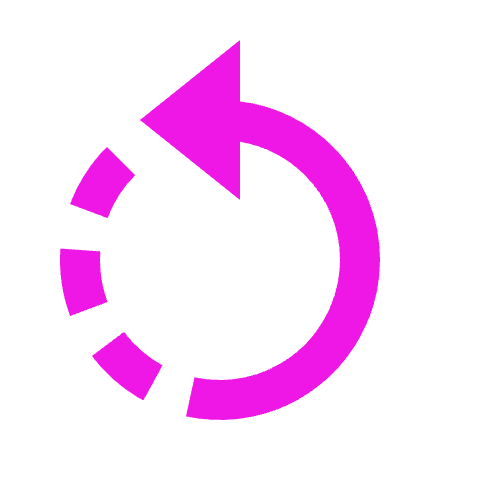
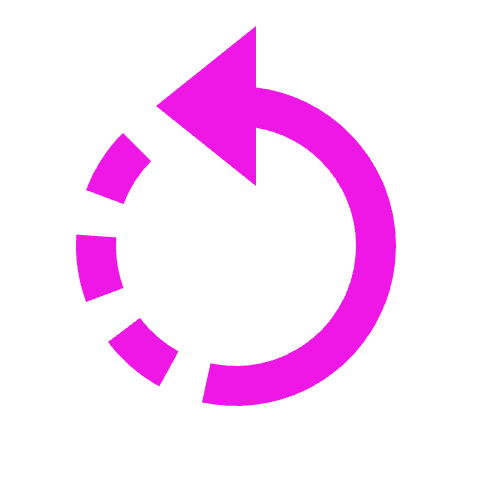
Hint images implemented.
When you click yes or no or back, a corresponding Icon will flash on the screen to make sure you don't accidentally click no a bunch when you think you are clicking yes.

diff --git a/WildSort.qml b/WildSort.qml
@@ -27,6 +27,27 @@ Window {
         function onPictureChanged(picOnOf){
             textPhotoNum.text = picOnOf
         }
+
+        function onFlashIcon(code){
+            if (code == "yes"){
+                checkMark.visible = true;
+                checkMarkTimer.restart()
+            }
+            else if (code == "no"){
+                redX. visible = true;
+                redXTimer.restart()
+            }
+            else if (code == "back"){
+                backArrow.visible = true;
+                backArrowTimer.restart()
+            }
+            else if (code == "typechange"){
+                redX. visible = false;
+                checkMark.visible = false;
+                typeChangeArrow.visible = true;
+                typeChangeArrowTimer.restart()
+            }
+        }
     }
 
     ImageLogic {
@@ -59,9 +80,18 @@ Window {
                 anchors.horizontalCenter: parent.horizontalCenter
                 focus:true
                 Keys.onPressed: (event)=> { 
-                    if (event.key == Qt.Key_L) source = imageLogic.choiceMade("yes");  
-                    else if (event.key == Qt.Key_Semicolon) source = imageLogic.choiceMade("no"); 
-                    else if (event.key == Qt.Key_Apostrophe) source = imageLogic.choiceMade("back"); 
+                    if (event.key == Qt.Key_L){
+                        imageSourceHolder.text = imageLogic.choiceMade("yes"); 
+                        imageTimer.restart();
+                    }
+                    if (event.key == Qt.Key_Semicolon){
+                        imageSourceHolder.text = imageLogic.choiceMade("no"); 
+                        imageTimer.restart();
+                    } 
+                    if (event.key == Qt.Key_Apostrophe){ 
+                        imageSourceHolder.text = imageLogic.choiceMade("back"); 
+                        imageTimer.restart();
+                    }
 
                     if (event.key == Qt.Key_Return) 
                     {
@@ -73,7 +103,21 @@ Window {
                         }
                     }
                         
-                    }
+                }
+                
+                Timer {
+                    id:imageTimer
+                    interval: 200; 
+
+                    onTriggered: parent.source = imageSourceHolder.text;
+
+                    
+                }
+                TextField {
+                    id: imageSourceHolder;
+                    visible: false;
+                    text: "Hello";
+                }
            }
            
 
@@ -152,9 +196,15 @@ Window {
         source: "images/check-mark.png"
         anchors.horizontalCenter: page.horizontalCenter
         anchors.verticalCenter: page.verticalCenter
-        height: page.height - 200
-        width: page.height - 200
+        height: page.height * 0.5
+        width: page.height * 0.5
         visible: false
+
+        Timer {
+            id: checkMarkTimer
+            interval: 100; 
+            onTriggered: parent.visible = false;
+        }
     }
 
     Image {
@@ -162,9 +212,15 @@ Window {
         source: "images/x-circle.png"
         anchors.horizontalCenter: page.horizontalCenter
         anchors.verticalCenter: page.verticalCenter
-        height: page.height - 200
-        width: page.height - 200
+        height: page.height * 0.5
+        width: page.height * 0.5
         visible: false
+
+        Timer {
+            id:redXTimer
+            interval: 100; 
+            onTriggered: parent.visible = false;
+        }
     }
 
     Image {
@@ -172,9 +228,15 @@ Window {
         source: "images/left-arrow.png"
         anchors.horizontalCenter: page.horizontalCenter
         anchors.verticalCenter: page.verticalCenter
-        height: page.height - 200
-        width: page.height - 200
+        height: page.height * 0.5
+        width: page.height * 0.5
         visible: false
+
+        Timer {
+            id:backArrowTimer
+            interval: 100; 
+            onTriggered: parent.visible = false;
+        }
     }
 
     Image {
@@ -182,9 +244,15 @@ Window {
         source: "images/restart-arrow.png"
         anchors.horizontalCenter: page.horizontalCenter
         anchors.verticalCenter: page.verticalCenter
-        height: page.height - 200
-        width: page.height - 200
+        height: page.height * 0.8
+        width: page.height * 0.8
         visible: false
+
+        Timer {
+            id:typeChangeArrowTimer
+            interval: 1000; 
+            onTriggered: parent.visible = false;
+        }
     }
     
 

diff --git a/ImageSorting/imageLogic.py b/ImageSorting/imageLogic.py
@@ -28,6 +28,7 @@ class ImageLogic(QObject):
 
     looking4Changed = Signal(str)
     pictureChanged = Signal(str)
+    flashIcon = Signal(str)
 
     typesToLook4 = {
         'Any Trigger': {
@@ -283,9 +284,9 @@ class ImageLogic(QObject):
 
         #Tell the UI to update the "Is there a ____?" area
         self.looking4Changed.emit(self.typeAddress[-1])
+        self.flashIcon.emit("typechange")
 
         self.getNextPhoto()
-
 
     def getNextPhoto(self):
         #Move through the pics until hitting the next one that is relevant for the current Type
@@ -352,12 +353,15 @@ class ImageLogic(QObject):
             case "yes":
                 self.updateCurrentData(1)
                 picToShow = self.getNextPhoto()
+                self.flashIcon.emit("yes")
             case "no":
                 self.updateCurrentData(0)
                 picToShow = self.getNextPhoto()
+                self.flashIcon.emit("no")
             case "back":
                 self.updateCurrentData(1) #This is being set because it essentially sets the data point to "not filled in". See getNextPhoto() for explanation.
                 picToShow = self.getLastPhoto()
+                self.flashIcon.emit("back")
             case _:
                 raise ValueError("user choice passed in is not valid. Should be \'yes\',\'no\', or \'back\' (case insensitive)" , choice)
 
